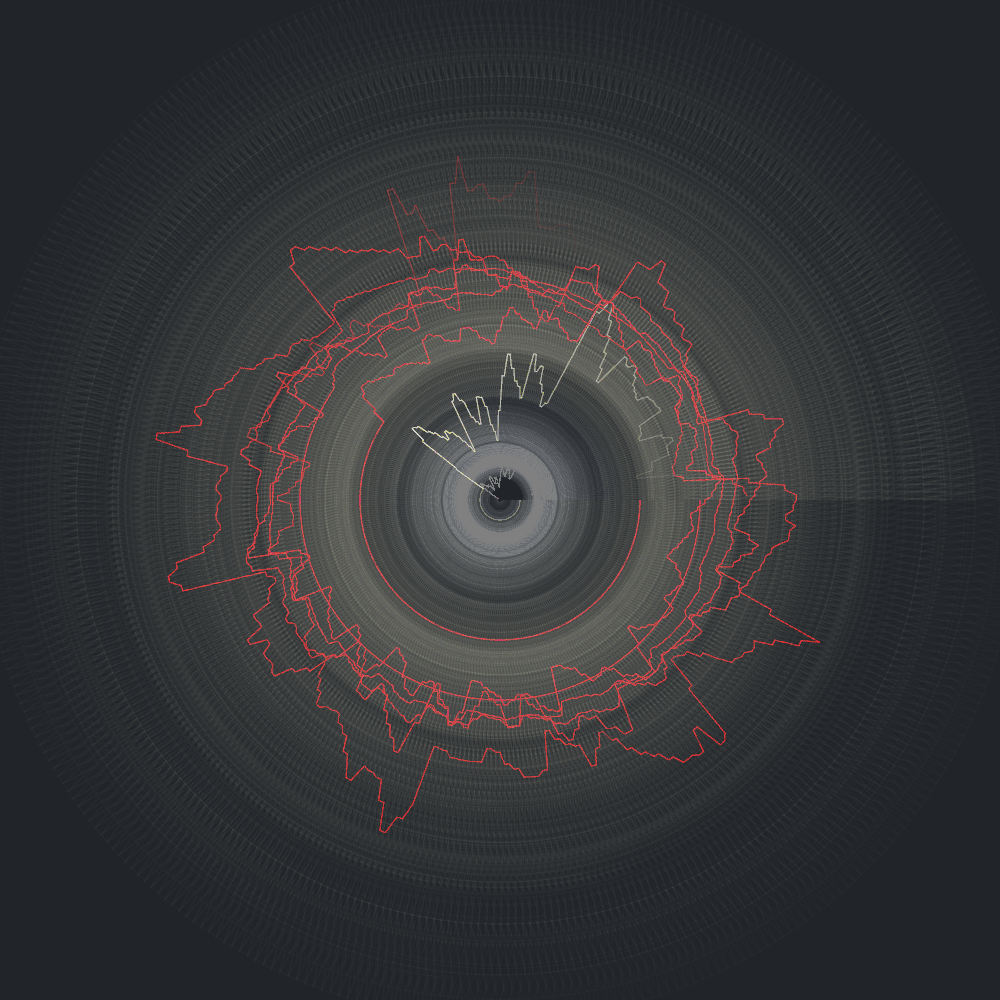
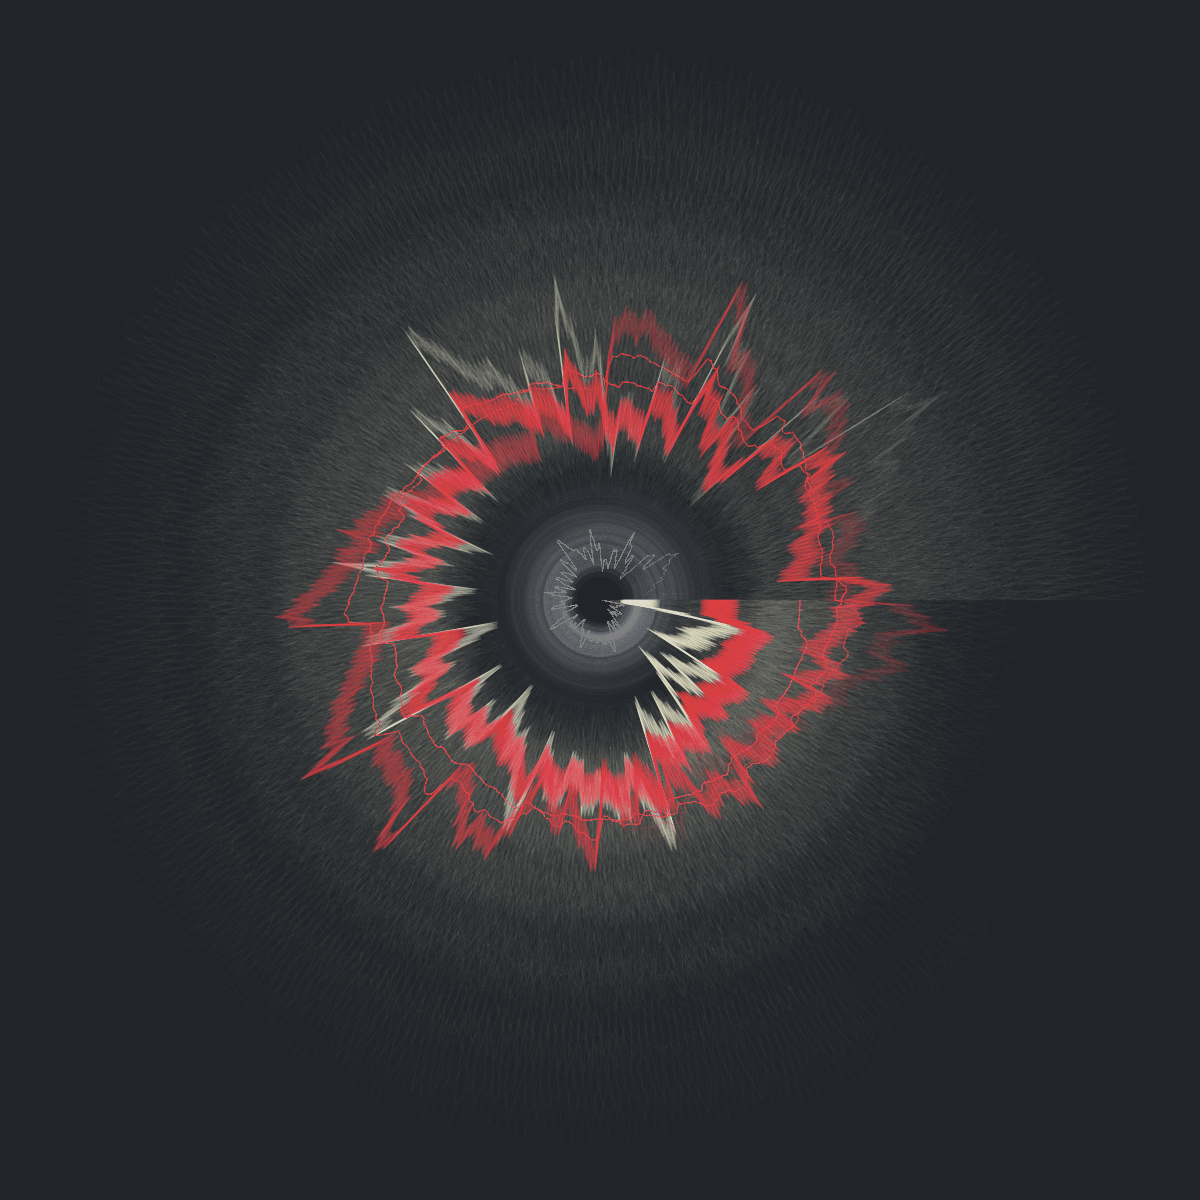
sound cc

diff --git a/src/pages/Codechallenges.js b/src/pages/Codechallenges.js
@@ -62,6 +62,8 @@ function CodeChallenges() {
             </Link>
 
 
+{/* temperaory not director acces
+
               <Link to="./dragforce">
               <div className='collection-thumernails-item'>
                 <div className='dragforce-image'></div>
@@ -75,7 +77,7 @@ function CodeChallenges() {
                 <div className='radiusflow-image'></div>
               </div>
             </Link>
-
+ */}
 
 
 

diff --git a/src/codechallanges/soundcirle/Soundcirle.js b/src/codechallanges/soundcirle/Soundcirle.js
@@ -39,6 +39,12 @@ function SoundcircleContent() {
           <div className='soundcircle-image' id='sc3'></div>
         </div>
 
+
+
+        <div className='collection-soundcircle-item'>
+          <div className='soundcircle-image' id='sc4'></div>
+        </div>
+
         <div className='collection-dummy-item'>
         </div>
 

diff --git a/src/codechallanges/soundcirle/Soundcircle.css b/src/codechallanges/soundcirle/Soundcircle.css
@@ -37,3 +37,8 @@
 #sc3 {
   background-image: url('./images/sc3.png');
 }
+
+
+#sc4 {
+  background-image: url('./images/sc4.png');
+}
